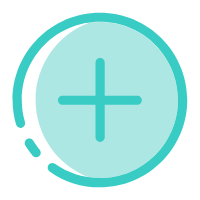
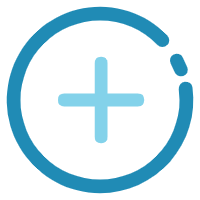
修改了主题色

diff --git a/pages/tabs/index/index.vue b/pages/tabs/index/index.vue
@@ -2,7 +2,7 @@
 	<view>
 		<WarningBox v-model="show" title='警告 ' text='请联系服务员' :noCancel="true" :noOk="true" />
 		<!-- 轮播图 -->
-		<swiper :indicator-dots="true" :autoplay="true" :interval="3000" :duration="1000" indicator-active-color="#00d8a0">
+		<swiper :indicator-dots="true" :autoplay="true" :interval="3000" :duration="1000" indicator-active-color="#208bb5">
 			<swiper-item v-for='(item,index) in bannerList' :key='index'>
 				<a :href="item.url">
 					<image class="swiper-image" :src="item.img"></image>
@@ -36,7 +36,7 @@
 								<!-- 遍历菜品 -->
 								<view class="goods" v-for="(item,index) in foodsList" :key="index">
 									<image :src="item.img" @tap="toggleSpec(item)" />
-									<view>
+									<view @tap="toggleSpec(item)">
 										<view class="name">{{item.name}}</view>
 										<view class="describe">{{item.explain}}</view>
 										<!-- <view>{{number}}</view> -->
@@ -53,7 +53,7 @@
 		</view>
 		<!-- 弹出菜品详情页 -->
 		<detailPage :specClass='this.specClass' @close="closeSf" v-if="this.showItem" :food="this.showItem" @add="add_cart"></detailPage>
-		
+
 		<!-- 加入购物车动画 cartx 和 carty 是购物车位置在屏幕位置的比例 例如左上角x0.1 y0.1 右下角 x0.9 y0.9-->
 		<shopCarAnimation ref="carAnmation" cartx="0.45" carty="1.1"></shopCarAnimation>
 	</view>
@@ -84,7 +84,7 @@
 				leftIndex: 0,
 				show: false,
 				specClass: 'none',
-				showItem:null
+				showItem: null
 			}
 		},
 		onLoad(option) {
@@ -190,7 +190,7 @@
 			},
 			// 控制弹出层显示隐藏
 			toggleSpec(item) {
-				this.showItem=item;
+				this.showItem = item;
 				this.specClass = 'show';
 			},
 			closeSf() {
@@ -222,9 +222,7 @@
 			margin: 20rpx 30rpx 10rpx 30rpx;
 			border-radius: 15rpx;
 		}
-	}
-
-	,
+	},
 	// 下面是分类部分的样式
 	.list_box {
 		display: flex;
@@ -366,6 +364,4 @@
 			}
 		}
 	}
-
-	
 </style>

diff --git a/components/cart/uni-number-box.vue b/components/cart/uni-number-box.vue
@@ -3,7 +3,7 @@
 		<view class="uni-numbox-minus" 
 			@click="_calcValue('subtract')"
 		>
-			<text :class="minDisabled?'uni-numbox-disabled': ''" >-</text>
+			<text :class="minDisabled?'uni-numbox-disabled': ''" >–</text>
 		</view>
 		<input 
 			class="uni-numbox-value" 
@@ -160,7 +160,7 @@
 		margin: 0;
 		/* background-color: #f8f8f8; */
 		border-radius: 50%;
-		background-color: #ace7e4;
+		background-color: #208bb5;
 		width: 50upx;
 		height: 50upx;
 		font-size: 34upx;

diff --git a/components/cart/cart-item.vue b/components/cart/cart-item.vue
@@ -3,7 +3,7 @@
 		<view class="cart-list">
 			<side-slip v-for="(item, index) in this.$cartList" :key="item.id" @remove="delCart(item.id)">
 				<view class="cart-item">
-					<checkbox :checked='item.checked' color='#00d8a0' @click="check('item', index)" />
+					<checkbox :checked='item.checked' color='#208bb5' @click="check('item', index)" />
 					<view class="image-wrapper">
 						<image lazy-load :src="item.img" mode="aspectFill"></image>
 					</view>

diff --git a/common/util.js b/common/util.js
@@ -1,5 +1,5 @@
-const apiPath ='http://dining-room3.local/' //API根路径
-// const apiPath ='http://lishuo-api.liyangweb.com/' //API根路径
+//const apiPath ='http://dining-room3.local/' //API根路径
+const apiPath ='http://lishuo-api.liyangweb.com/' //API根路径
 
 //简化uni.request
 const get = (url, data = '', method = 'GET') => {

diff --git a/uni.scss b/uni.scss
@@ -13,7 +13,7 @@
  */
 
 /* 颜色变量 */
-$theme-color:#00d8a0;//主题色
+$theme-color:#208bb5;//主题色
 // $theme-color:#009fff;//主题色
 
 
